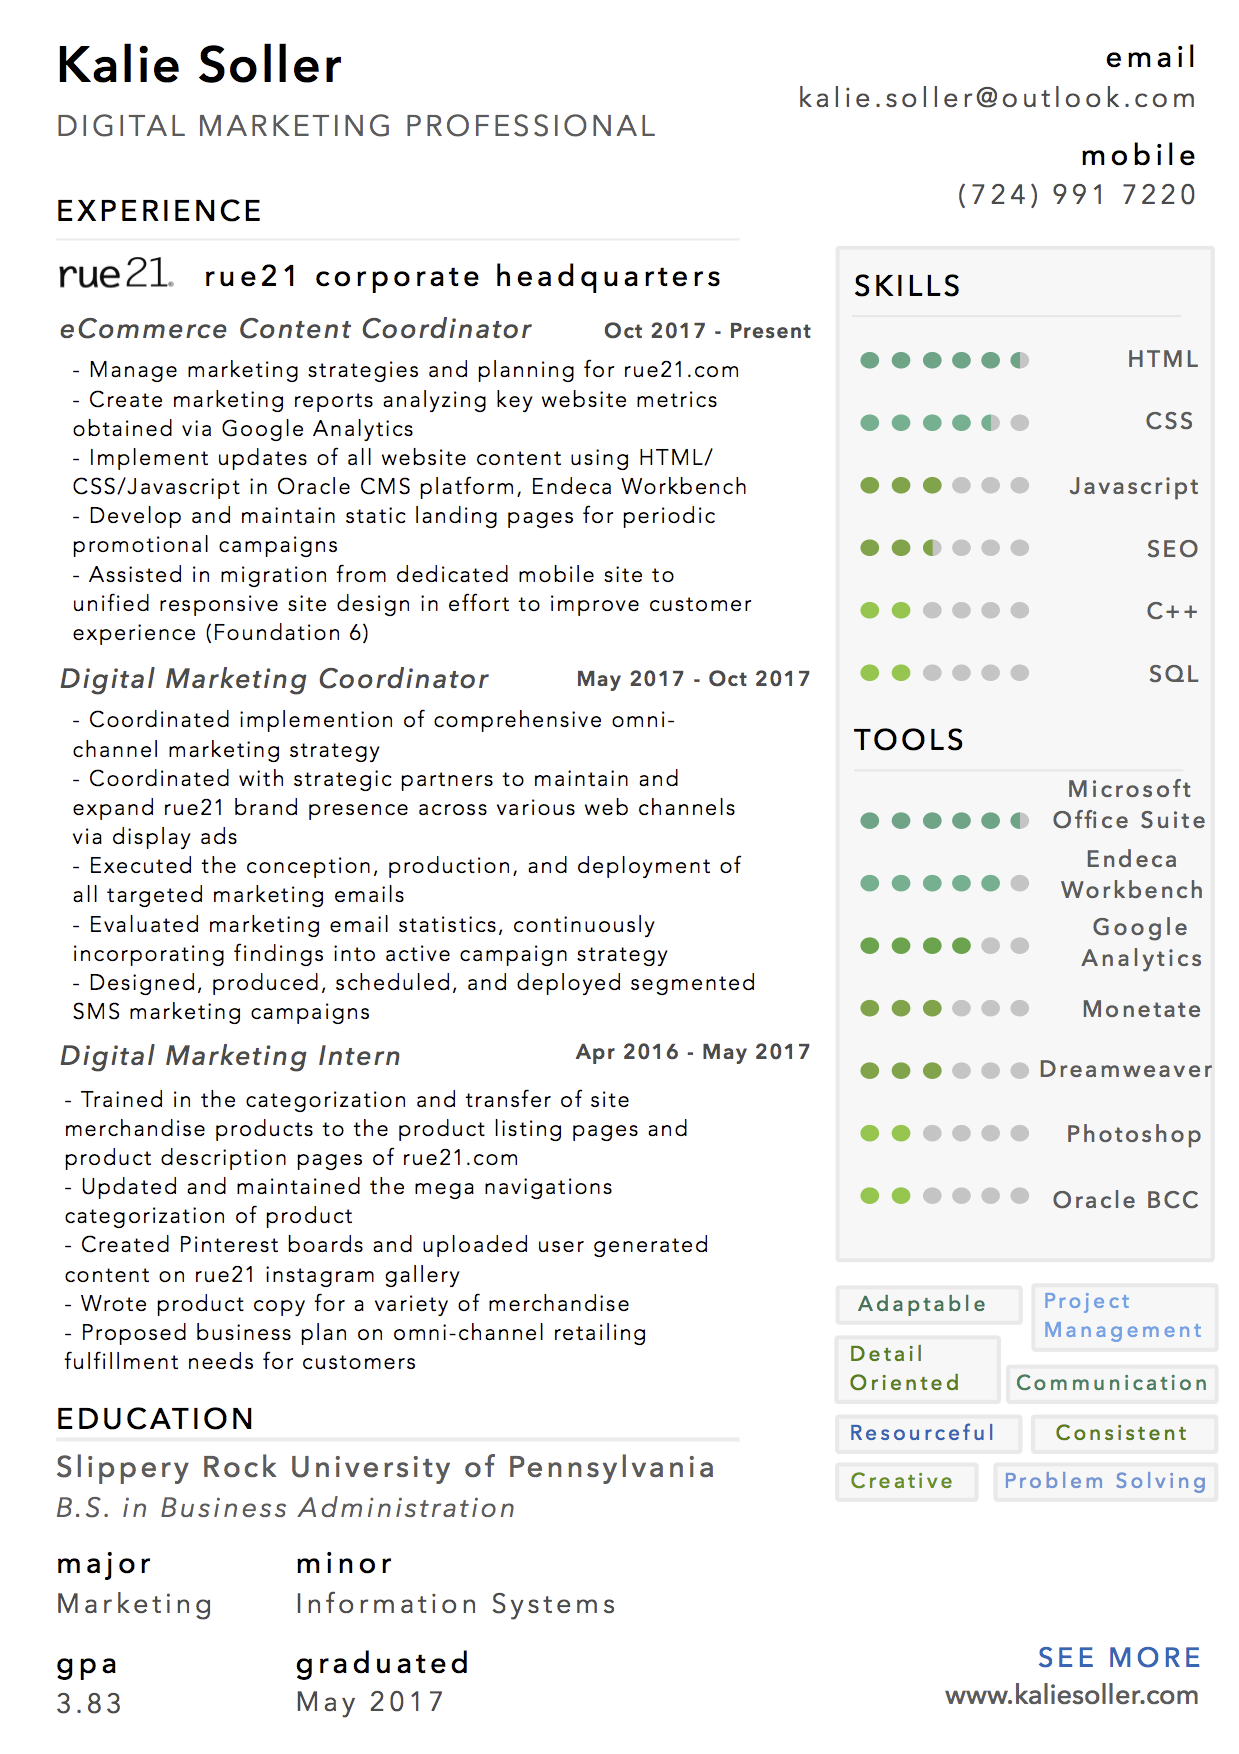
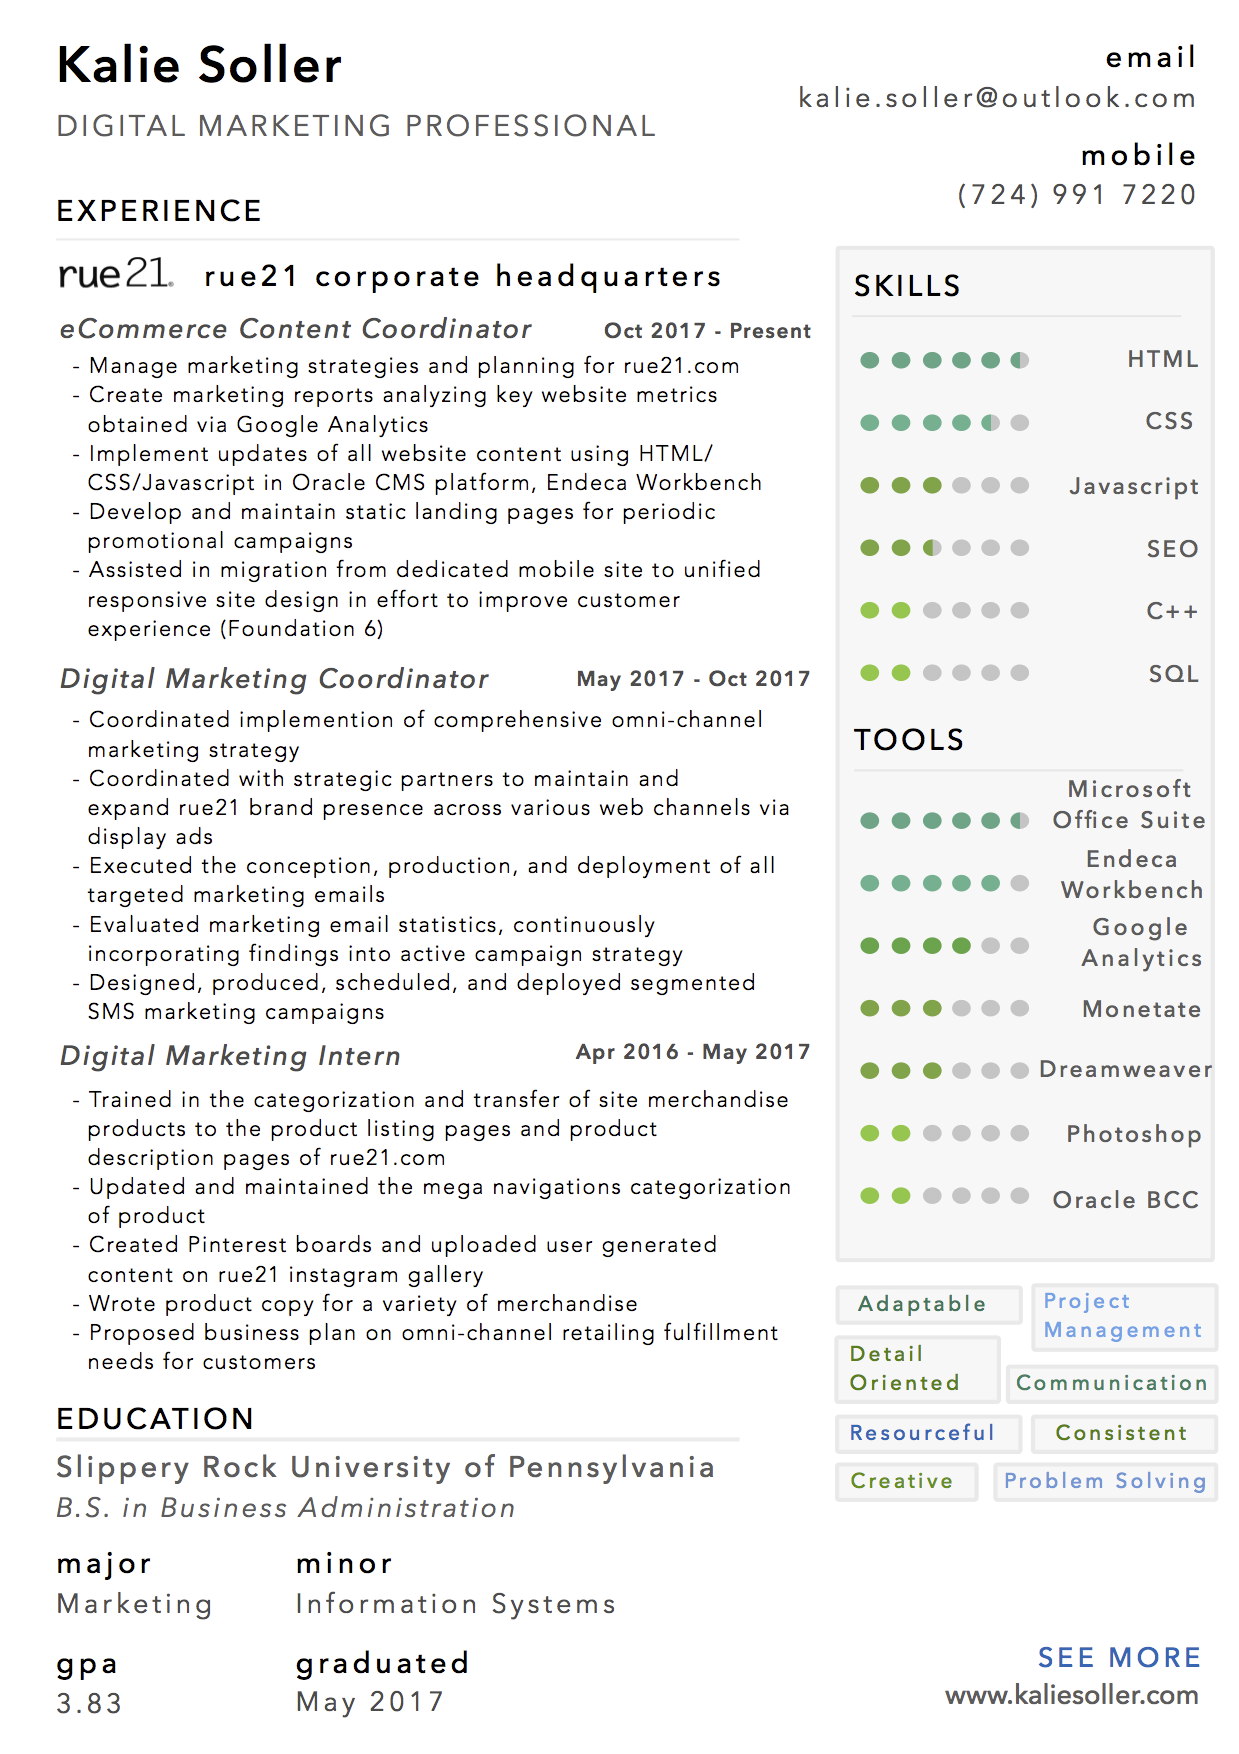
updated text and fonts

diff --git a/src/projects.html b/src/projects.html
@@ -5,6 +5,7 @@
   <meta name="viewport" content="width=device-width">
   <title>Kalie Soller | Portfolio</title>
   <link rel="stylesheet" type="text/css" href="../css/main.css">
+  <link href="https://fonts.googleapis.com/css?family=Quicksand" rel="stylesheet">
   <script src="https://ajax.googleapis.com/ajax/libs/jquery/3.1.0/jquery.min.js"></script>
   <script src="https://cdnjs.cloudflare.com/ajax/libs/animejs/2.0.2/anime.min.js"></script>
   <script type="text/javascript" src="../js/projects.js"></script>
@@ -37,9 +38,9 @@
   </section>
   <section id="website">
     <h2>Website Marketing</h2>
-    <p> In October of 2017, I became an <strong>eCommerce Content Coordinator </strong> at rue21. In this role, I manage strategizing, planning, conception, and execution for all marketing pages on rue21.com. The marketing pages for the website include the homepage, category landing pages, FAQs, static landing pages, product listing page, and trend pages. I refresh all of the marketing content on the site periodically to align with in-store signage, to provide a consistant experience for omni-channel customers. When planning new content, I make sure that the highest volume driving product categories for girls, guys, plus, shoes, and accessories, that season, are presented on the site. To implement updates of all website content, I use HTML, CSS, and Javascript in Oracle's CMS platform, Endeca Workbench.</p>
-    <p>In september of 2017, rue21 migrated from dedicated mobile site to a unified responsive site design in effort to improve customer experience(Foundation 6). We redesigned from using CMS, branding brand, for our mobile site to a responsive site in Oracles, Endeca Workbench. Nearly 70% of our online customers shop on a mobile device so there is a focus on mobile design first.</p>
-    <p>Since taking on this position, I have been able to influence site design through content reporting. Through analysis, I made the site more effiecent by decreasing the page load time and optimzing content placement. Some featutes I was able to implement were drop down menus for FAQ pages, update SEO copy throughout the site, making static pages take on a responsive design, creating carousel sliders for the homepage, added text overlay to the content, and updated the overall marketing design of the website.</p>
+    <p> In October of 2017, I became an <strong>eCommerce Content Coordinator </strong> at rue21. In this role, I manage strategizing, planning, conception, and execution for all marketing pages on rue21.com. The marketing pages for the website include the homepage, category landing pages, FAQs, static landing pages, product listing pages, and trend pages. I refresh all of the marketing content on the site periodically to align with in-store signage, to provide a consistant experience for omni-channel customers. When planning new content, I make sure that the highest volume driving product categories for girls, guys, plus, shoes, and accessories, are displayed on the site. To implement updates of all website content, I use HTML, CSS, and Javascript in Oracle's CMS platform, Endeca Workbench.</p>
+    <p>In September of 2017, rue21 migrated from dedicated mobile site to a unified responsive site design in effort to improve customer experience(Foundation 6). We redesigned from using CMS, branding brand, for our mobile site to a responsive site in Oracles, Endeca Workbench. Nearly 70% of our online customers shop on a mobile device so there is a focus on mobile design first.</p>
+    <p>Since taking on this position, I have been able to influence site design through content reporting. By analyzing key metrics, I made the site more effiecent by decreasing the page load time and optimzing content placement. Featutes I implemented were drop down menus for FAQ pages, update SEO copy sitewide, created a responsive deisgn for static pages, created carousel sliders for the homepage, added text overlay to the content, and updated the overall marketing design of the website.</p>
   </section>
   <section class="desktop_info col-6">
     <div class="row hideme">
@@ -67,7 +68,7 @@
   <div class="row hideme">
     <div class="col-3">
       <h3>Desktop Content</h3>
-      <p>Incorporated on the site were images and call to actions for all categories (girls, guys, & plus). The homepage had a graphic asset of guys jackets &amp; and a graphic asset of girls denim to help show off the girls and guys categories. Each category had Call To Actions, CTAs, so all categories of customers can be linked to their specific product, to create better customer experience.</p>
+      <p>Incorporated on the site were images and call to actions for all categories (girls, guys, & plus). The homepage had a graphic asset of guys jackets &amp; and a graphic asset of girls denim to speak to both categories. Each category had Call To Actions, CTAs, to link customers to their specific category.</p>
    </div>
    <div class="col-3">
      <img src="../images/BottomBanner_desktop.png" alt="desktop homepage" width="100%" height="100%">
@@ -81,8 +82,8 @@
    </div>
    <div class="col-3">
       <h3>Mobile Homepage</h3>
-       <p>In September, rue21 trasitioned from an m.rue21.com mobile site to a responsive design. To make sure the site can be responsive, I have to take into consideration how the desktop design will collapse down into the mobile site.</p>
-       <p>The mobile site to the left featured the same <strong>40% off your purchase of $40+ coupon</strong> that desktop had. This banner was a gif that flipped through our brand colors for that time period. The strategy was to keep a consistent experience across the site and other channels.</p>
+       <p>In September, rue21 trasitioned from an m.rue21.com mobile site to a responsive design. To ensure a responsive design, I take into consideration how the desktop design will collapse down into the mobile site.</p>
+       <p>The mobile site featured the same <strong>40% off your purchase of $40+ coupon</strong> for post Holiday. This banner was a gif that flipped through our brand colors for that time period. The strategy was to keep a consistent experience across the site and other channels.</p>
    </div>
  </div>
 </section>
@@ -91,7 +92,7 @@
     <div class="col-3">
       <h3>Mobile Content</h3>
        <p>The mobile site featured to the right presents what our desktop images look like when they respond down to mobile. On the desktop screen it is two images side by side while on mobile the two images are stacked.</p>
-       <p>Jeans were a hot item during the post holiday season. They were featured on the homepage and category landing pages for more exposure.</p>
+       <p>Jeans were a hot item during the post holiday season so they were featured on the homepage and category landing pages for more exposure.</p>
    </div>
    <div class="col-3">
      <img src="../images/mobile_bottom.png" alt="mobile bottom banner content" width="100%" height="100%">
@@ -100,7 +101,7 @@
 </section>
   <section id="email">
     <h2>Email Marketing</h2>
-    <p>Throughout my internship with rue21 and leading into my first job as a <strong>Digital Marketing Coordinator</strong>, I executed the conception, production, and deployment of all targeted marketing emails for rue21. This including promotional, trend, store opening/closing, and other event emails. </p>
+    <p>Leading into my first full time position, I executed the conception, production, and deployment of targeted marketing emails for rue21. This including promotional, trend, store opening/closing, and other event emails. </p>
       <p>Photoshop is used to slice the email for future linking, then Dreamweaver is used to take the slices and peice the slices back together via HTML programming language. During this coding process, I create alt tags and strategically link the indivdual slices. Once the email is complete, I send the email file to Cheetah Digital, our email vendor, to add on the header, footer, and disclaimers. The email is then sent for back for testing. When testing, I make sure all images, links, tracking, alt tags, copy, and disclaimers are correct. After the email is approved, it is scheduled to send out to the full database or a segment of the database. </p>
   </section>
   <section class="email_info col-6">
@@ -108,8 +109,7 @@
       <div class="col-3">
         <h3>Email</h3>
         <p>When planning the design of all digital marketing assets, including the creation of email, we try to provide customers with a consistent experience across all channels. The hero message of this email was our post holiday coupon, <strong>40% off your purchase of $40+</strong>. During post Holiday, retailers tend to push clearance but rue21 wanted to show our fresh apparel by messaging girls &amp; guys new arrivals.</p>
-        <p>This email is a gif with the coupon slice flipping through our branded color pallet for post holiday. There are buttons under the coupon to lead you to find a store or to take you to the website to shop. The copy "fresh start" speaks to Holiday is over so its time to shop our new arrivals. There are Call to Actions under the girls and guys images linking to their new arrivals pages with fresh product for our customers to shop.</p>
-        <p>To drive urgence and obtain any last minute sales, we send last day and final hours emails out for any coupon or event. These emails tend to drive the most revenue and highest click thru and open rates. We also send preview emails the day before a coupon to a segmented list of in store customers to give them time to plan to get to a store. These emails also perform well.</p>
+        <p>To drive urgence and obtain any last minute sales, we send last day and final hours emails out for coupon events. These emails tend to drive the most revenue and highest click thru rates.</p>
       </div>
       <div class="col-3">
         <div class="email_img">
@@ -120,7 +120,7 @@
 </section>
   <section id="sms">
     <h2>SMS Marketing</h2>
-    <p>As a Digital Marketing Coordinator, I designed, produced, scheduled, and deployed segmented SMS marketing campaigns. By sending SMS messages, we try to drive our omni-channel customers to shop at a near by store or hop online to shop. For SMS, I would work with Waterfalls platform to plan, test, and schedule <strong>SMS campaigns</strong>. We are contracted to send up to 8 SMS per mont. Some events we send SMS for would be clearance, promotional, coupon, and loyalty program events. The texts have to be within 160 characters so it is important to learn how to fit the neccessary information in without taking away from branded language.</p>
+    <p>As a Digital Marketing Coordinator, I designed, produced, scheduled, and deployed segmented SMS marketing campaigns. By sending SMS messages, we try to drive our omni-channel customers to shop at a near by store or to shop online. For SMS, I would work with Waterfalls platform to plan, test, and schedule <strong>SMS campaigns</strong>. We are contracted to send up to 8 SMS per month. Some events we send SMS for would be clearance, promotional, coupon, and loyalty program events. These texts have to be within 160 characters so it is important to learn how to fit the neccessary information in without taking away from branded language.</p>
     <p>SMS gives you the option to be your own copy writer and be creative with your work in a limited amount of characters. How creative can you be in 160 characters?</p>
   </section>
   <section class="sms_info col-6">
@@ -131,20 +131,20 @@
       <div class="col-3">
         <h3>SMS</h3>
       <p>The SMS message to left is for the <strong> 40% off your purchase of $40+</strong> coupon. For this event, we wanted to reach as many customers as possible so sending an SMS was a great way to reach our omni-channel customer. </p>
-      <p>This SMS links the customers to a marketing landing page on rue21.com. This page consists of the a graphic that displays the deal, a promo code, a bar code, disclaimer, and redemption dates for the coupon. This makes it easy for our customers to choose to either redeem the coupon online or take it to a store to be scanned.</p>
+      <p>This SMS links the customers to a marketing landing page on rue21.com. This page consists of a graphic that displays the deal, a promo code, a bar code, disclaimer, and redemption dates for the coupon. This makes it easy for our customers to choose to either redeem the coupon online or take it to a store to be scanned.</p>
      </div>
    </div>
 </section>
   <section id="channel">
       <h2>Channel Marketing</h2>
-      <p>In both coordinator positions I have taken on at rue21, I have been in charge of <strong>display</strong> and other channel planning. For Display, I work with a vendor to "display" our branded and non-branded ads across the web. Sitelink copy is created to go with daily promotions and events as well. </p>
+      <p>In both career positions I have taken on at rue21, I have been in charge of <strong>display</strong> and other channel planning. For Display, I work with a vendor to "display" our branded and non-branded ads across the web. Sitelink copy is created to go with daily promotions and events as well. </p>
           <p>I coordinate with digital graphic designers on what categories or promotions need assets designed. There are 6 different spec sizes for these display assets (300x250, 300x50,320x50, 728x90, 160x600, 970x250). The smaller spec sizes for display (300x50 and 320x50) are to accomidate our mobile customer. Once the assets are design, I check to make sure there is a call to action, the promotion is correct, the copy is correct, and any other requests for the assets are fulfilled. We generally send around 2-3 display assets per week with our biggest promotions leading. We also create <strong>evergreen display assets</strong> to create brand awareness. These evergreen assets will live for a retail season and then be updated. </p>
   </section>
   <section class="channel_info col-6">
       <div class="row hideme">
         <div class="col-3">
           <h3>Display</h3>
-          <p>The types of display assets we create are evergreen, trend, or promotional ads. Through reporting, I was able to make differences in our bland display ads we previously had. Our ads used to be text only and we had only 2 spec sizes. From analyzing reports, I was able to better our program by incorporating gif ads, ads with model/laydown imagery, adding more spec sizes (including mobile sizes), created evergreen strategy, and cut back on how many ads active per week. Through doing so, I was able to optimize our display ad performance.</p>
+          <p>The types of display assets we create are evergreen, trend, or promotional ads. By analyzing reports, I was able to make differences in our display ads. Our ads used to be text only and we only had 2 spec sizes. I was able to better our program by incorporating gif ads, ads with model/laydown imagery, adding more spec sizes (including mobile sizes), creating an evergreen strategy, and cutting back on how many ads were active per week. In doing so, I was able to optimize our display ad performance.</p>
          </div>
        <div class="col-3">
          <div class="slideshow-container">

diff --git a/src/aboutme.html b/src/aboutme.html
@@ -5,6 +5,7 @@
   <meta name="viewport" content="width=device-width">
   <title>Kalie Soller | About Me</title>
   <link rel="stylesheet" type="text/css" href="../css/main.css">
+  <link href="https://fonts.googleapis.com/css?family=Quicksand" rel="stylesheet">
   <script type="text/javascript" src="../js/projects.js" ></script>
 </head>
 <body>
@@ -27,8 +28,8 @@
   <section class="aboutme_container col-6">
     <h1> ABOUT ME</h1>
       <p> Hello, my name is <strong>Kalie Soller</strong> and I am a <strong>Digital Marketing Professional</strong>. I currently work at the fast-fashion retailer, <strong>rue21</strong>, as an eCommerce Content Coordinator. In my career at rue21, I implement updates to all marketing pages on rue21.com via HTML, CSS, &amp; Javascript. I also have experience in SEO, Email, SMS, Digital Center Ads, and Display Marketing from my prior experiences with the company.</p>
-      <p> The path to my career started when I went to college at <strong> Slippery Rock University</strong>, a small school outside of Pittburgh, PA. When I arrived at SRU as a freshman, I planned on majoring in Elementary Education. Before classes began, I had a change in heart and declared a Major to Marketing. After taking a year of marketing classes, I decided I wanted a focus in <strong>Digital Marketing</strong> so I added on a Minor in <strong>Information Systems</strong> to get a digital background in marketing.</p>
-      <p>When I am not working on rue21.com, you can find me on the slopes, snowboarding with friends and family. The mountains are where I like to get away and take on the outdoors. When the seasons change, I spend my time laying out by the pool and soaking up the sun. I also enjoy playing sports like basketball, lacrosse, and tennis in the summer weather. Living in Pittsburgh, i've learned to enjoy the different activities that come with the change in seasons. Lastly, I also love visiting Notre Dame to watch some good ole Irish football. </p>
+      <p> The path to my career started when I went to college at <strong> Slippery Rock University</strong>, a small school outside of Pittburgh, PA. When I arrived at SRU as a freshman, I planned on majoring in Elementary Education. Before classes began, I had a change in heart and declared a major in Marketing. After taking a year of marketing classes, I decided I wanted a focus in <strong>Digital Marketing</strong> so I added on a minor in <strong>Information Systems</strong> to develop a  digital background in marketing.</p>
+      <p>When I am not working on rue21.com, you can find me on the slopes, snowboarding with friends and family. The mountains are where I like to get away and take on the outdoors. When the seasons change, I spend my time laying out by the pool and soaking up the sun. I also enjoy playing sports like basketball, lacrosse, and tennis in the summer weather. Living in Pittsburgh, I've learned to enjoy the different activities that come with the change in seasons. During the fall season, I love visiting Notre Dame to watch some good ole Irish football. </p>
 </section>
   </div>
   <footer class="col-6">

diff --git a/src/css/main.css b/src/css/main.css
@@ -70,49 +70,49 @@
 	}
 /* -------- Fonts - 	All pages --------- */
 		h1 {
-			font-family: Tahoma, Verdana, Segoe, sans-serif;
+			font-family: 'Quicksand', sans-serif;
 			font-size: 30px;
 			font-style: normal;
 			font-variant: normal;
 			font-weight: 500;
 			line-height: 50px;
-			letter-spacing: 0.220em;
+			letter-spacing: 0.20em;
 		}
 		h2 {
-			font-family: Tahoma, Verdana, Segoe, sans-serif;
+			font-family: 'Quicksand', sans-serif;
 			font-size: 26px;
 			font-style: normal;
 			font-variant: normal;
 			font-weight: 500;
 			line-height: 54.6px;
-			letter-spacing: 0.220em;
+			letter-spacing: 0.20em;
 		}
 		h3 {
-			font-family: Tahoma, Verdana, Segoe, sans-serif;
+			font-family: 'Quicksand', sans-serif;
 			font-size: 20px;
 			font-style: normal;
 			font-variant: normal;
 			font-weight: 500;
 			line-height: 29.4px;
-			letter-spacing: 0.220em;
+			letter-spacing: 0.20em;
 		}
 		p {
-			font-family: Tahoma, Verdana, Segoe, sans-serif;
+			font-family: 'Quicksand', sans-serif;
 			font-size: 16px;
 			font-style: normal;
 			font-variant: normal;
 			font-weight: 300;
 			line-height: 29.4px;
-			letter-spacing: 0.215em;
+			letter-spacing: 0.20em;
 		}
 		a {
-			font-family: Tahoma, Verdana, Segoe, sans-serif;
+			font-family: 'Quicksand', sans-serif;
 			font-size: 16px;
 			font-style: normal;
 			font-variant: normal;
 			font-weight: 300;
 			line-height: 29.4px;
-			letter-spacing: 0.210em;
+			letter-spacing: 0.190em;
 			text-decoration: none;
 			color: white;
 		}

diff --git a/src/index.html b/src/index.html
@@ -5,6 +5,7 @@
   <meta name="viewport" content="width=device-width">
   <title>Kalie Soller | Resume and Portfolio</title>
   <link rel="stylesheet" type="text/css" href="../css/main.css">
+  <link href="https://fonts.googleapis.com/css?family=Quicksand" rel="stylesheet">
   <script type="text/javascript" src="../js/index.js" ></script>
   <script src="https://ajax.googleapis.com/ajax/libs/jquery/3.1.0/jquery.min.js"></script>
   <script src="https://cdnjs.cloudflare.com/ajax/libs/animejs/2.0.2/anime.min.js"></script>

diff --git a/src/resume.html b/src/resume.html
@@ -5,6 +5,7 @@
   <meta name="viewport" content="width=device-width">
   <title>Kalie Soller | Resume</title>
   <link rel="stylesheet" type="text/css" href="../css/main.css">
+  <link href="https://fonts.googleapis.com/css?family=Quicksand" rel="stylesheet">
   <script type="text/javascript" src="../js/projects.js" ></script>
 </head>
 <body>
